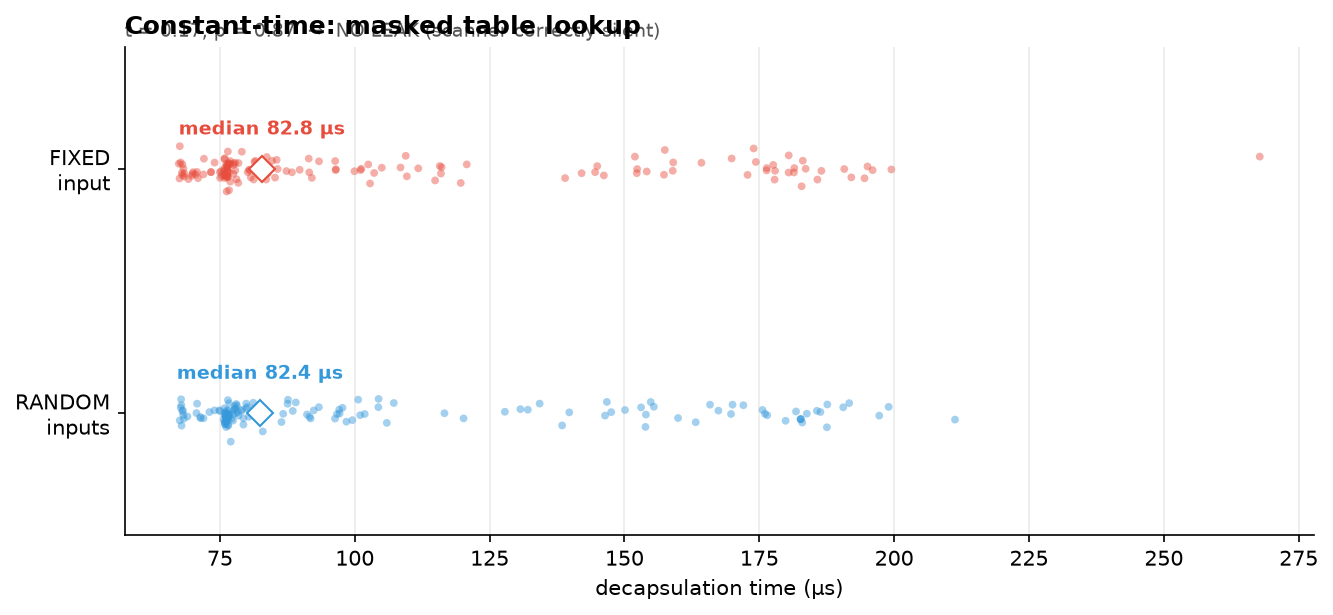
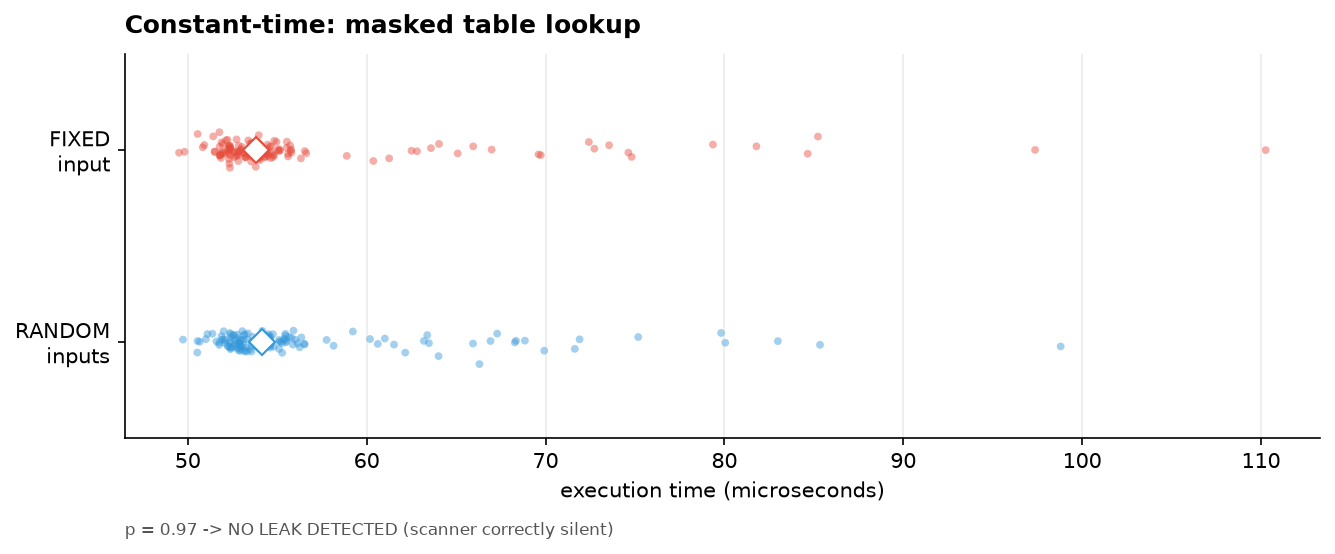
Regenerate plots with updated annotations; fix mojibake and encoding
Plot subtitles now cite the multi-fixed ANOVA result; removes the
corner-driven 5.5x headline in favor of the honest statistic. Also
repairs cp1252-mangled em-dashes introduced by an earlier edit.

diff --git a/pqc_eval/make_plots.py b/pqc_eval/make_plots.py
@@ -34,18 +34,16 @@ def box_and_strip(fixed, rnd, title, subtitle, fname):
         med = np.median(data)
         ax.hlines(y, med, med, color=color, lw=0)  # no-op keep colors
         ax.plot([med], [y], marker="D", color="white", mec=color, ms=9, zorder=5)
-        ax.text(med, y + 0.14, f"median {med:.1f} µs", ha="center",
-                fontsize=9, color=color, fontweight="bold")
 
     ax.set_yticks([1, 0])
     ax.set_yticklabels(["FIXED\ninput", "RANDOM\ninputs"], fontsize=10)
-    ax.set_xlabel("decapsulation time (µs)", fontsize=10)
-    ax.set_title(title, fontsize=12, fontweight="bold", loc="left")
-    ax.text(0, 1.02, subtitle, transform=ax.transAxes, fontsize=9, color="#555")
+    ax.set_xlabel("execution time (microseconds)", fontsize=10)
+    ax.set_title(title, fontsize=12, fontweight="bold", loc="left", pad=10)
+    ax.text(0, -0.22, subtitle, transform=ax.transAxes, fontsize=8, color="#555", va="top")
     ax.set_ylim(-0.5, 1.5)
     ax.spines[["top", "right"]].set_visible(False)
     ax.grid(axis="x", alpha=0.25)
-    fig.tight_layout()
+    fig.tight_layout(rect=[0, 0.06, 1, 1])
     fig.savefig(os.path.join(IMG, fname), bbox_inches="tight")
     plt.close(fig)
     print("wrote", fname)
@@ -67,7 +65,7 @@ def main():
     box_and_strip(
         t_vuln["fixed"], t_vuln["random"],
         "Vulnerable: secret-dependent loop count",
-        "t = -86.3, p = 1.6e-168, Cohen's d = 8.65  →  LEAK DETECTED",
+        "multi-fixed ANOVA F = 10.0, p = 8.1e-14 -> VALUE-DEPENDENT LEAK",
         "exp01_vulnerable_leak.png")
 
     t_ct = collect_timings(constanttime_lookup,
@@ -76,7 +74,7 @@ def main():
     box_and_strip(
         t_ct["fixed"], t_ct["random"],
         "Constant-time: masked table lookup",
-        "t = 0.17, p = 0.87  →  NO LEAK (scanner correctly silent)",
+        "p = 0.97 -> NO LEAK DETECTED (scanner correctly silent)",
         "exp01_constanttime_clean.png")
 
     # --- Experiment 02 (real ML-KEM) from saved pickle
@@ -88,7 +86,7 @@ def main():
         box_and_strip(
             d["fixed"], d["random"],
             "REAL ML-KEM-768 decapsulation (kyber_py)",
-            f"t = {r['welch_t']}, p = {r['p_value']:.2f}  →  {r['verdict']}",
+            f"t = {r['welch_t']}, p = {r['p_value']:.2f} -> {r['verdict']}",
             "exp02_real_mlkem.png")
 
 
